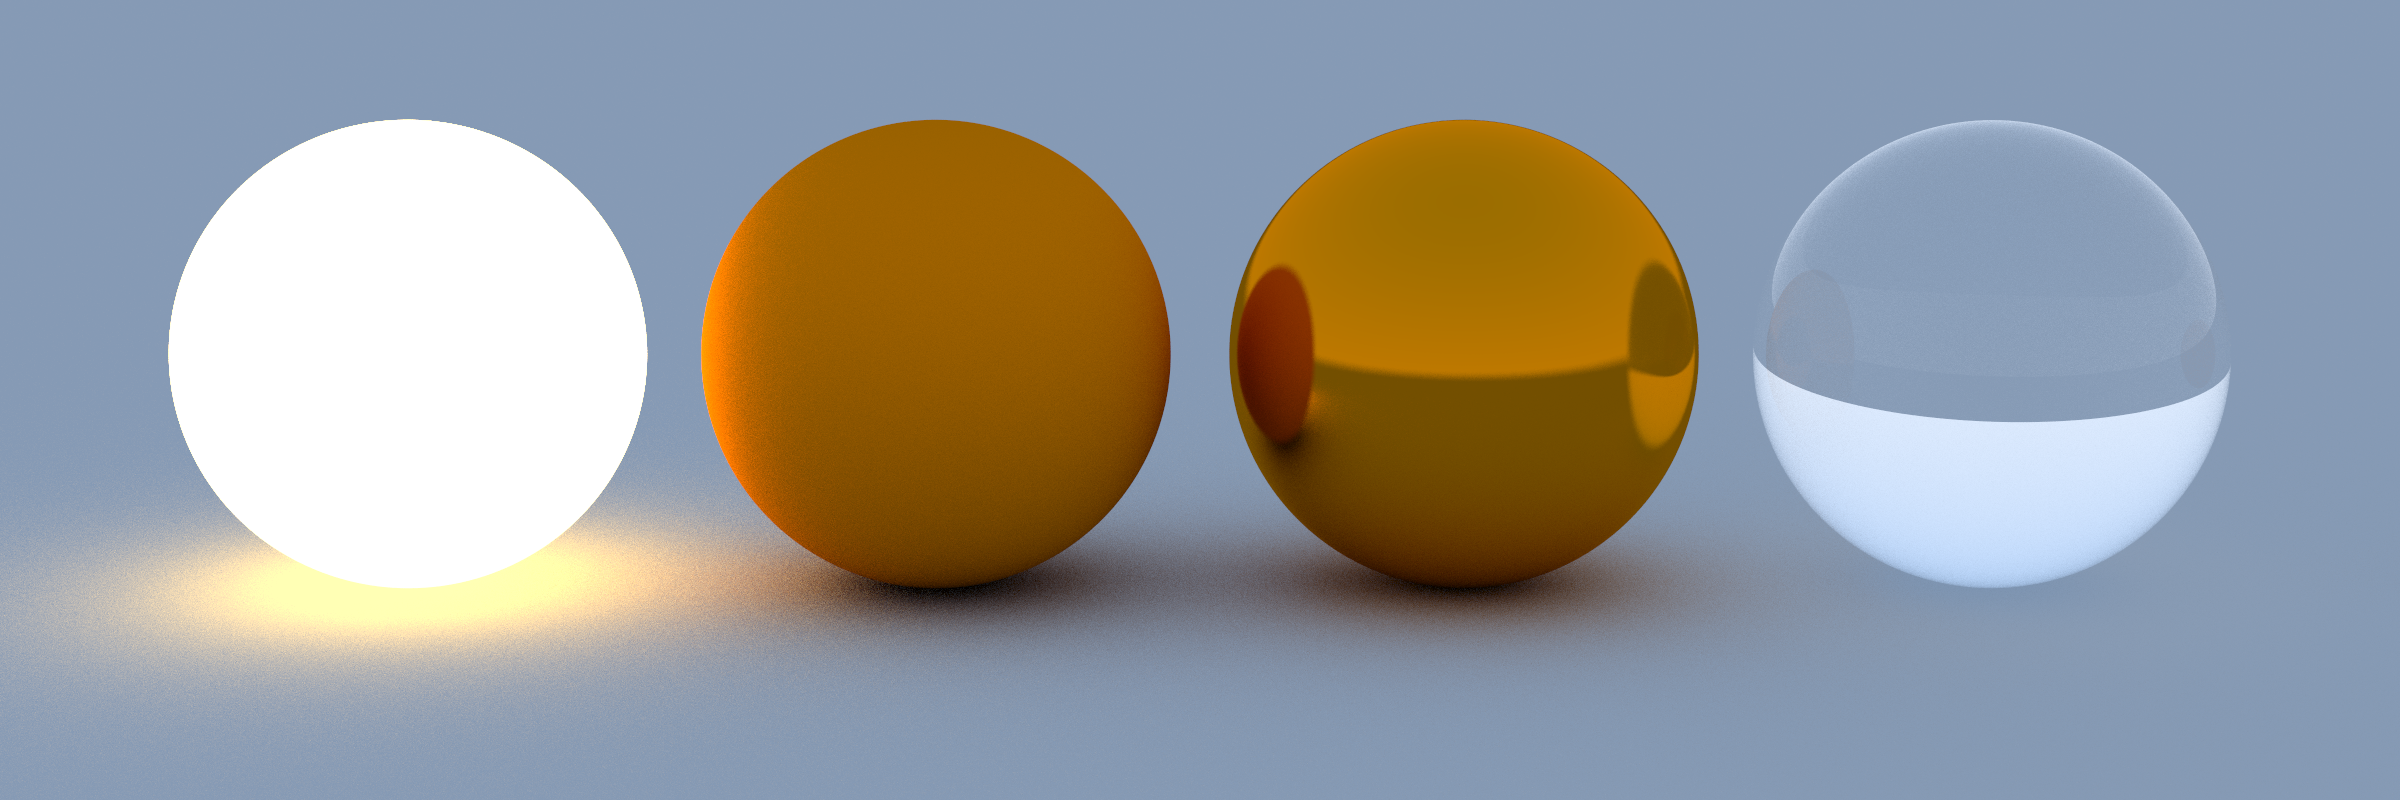
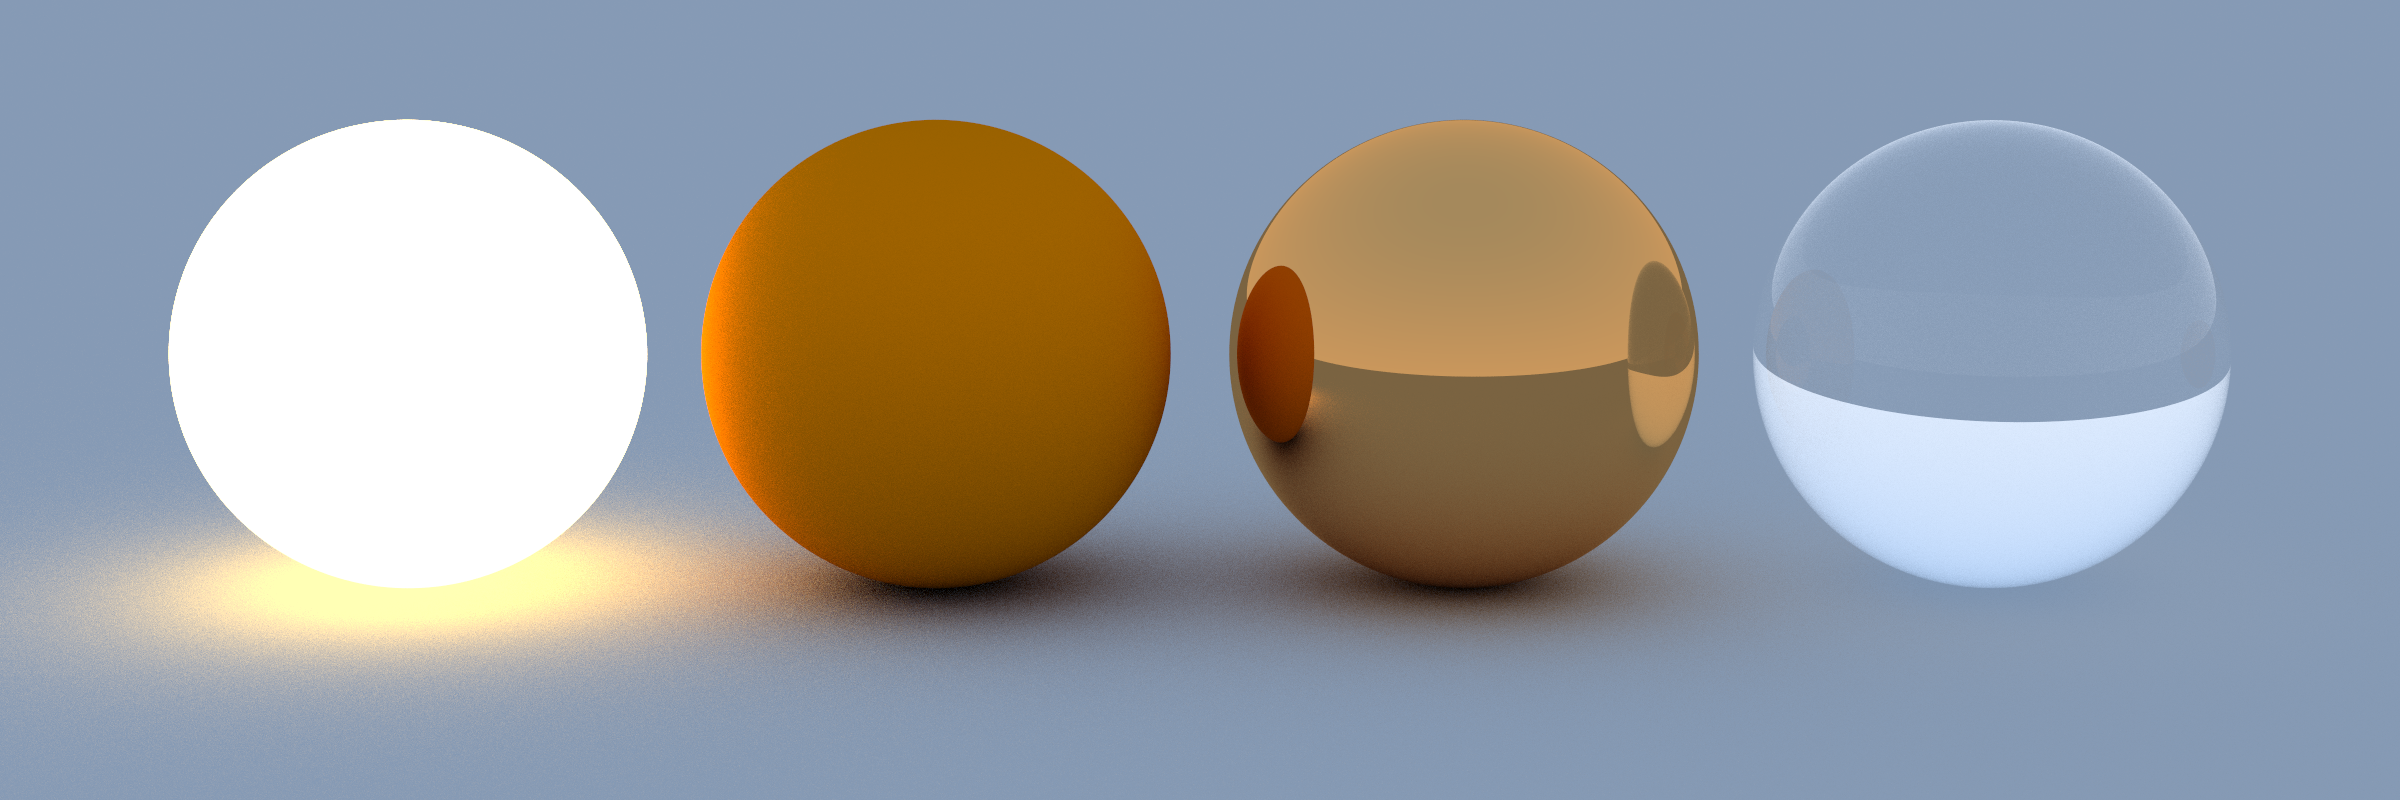
Refactored project.

Changed region(s): [[0.5, 0.125, 0.7188, 0.7188], [0.3438, 0.7188, 0.375, 0.75]]

diff --git a/src/bin/main.rs b/src/bin/main.rs
@@ -1,77 +1,8 @@
-use rust_ray::vec3::Vec3;
-use rust_ray::ray::Ray;
-use rust_ray::camera::Camera;
-use rust_ray::objects::Hitable;
-use rust_ray::util::clamp;
-use rust_ray::util::scenes::{random_scene2, simple_scene};
+use rust_ray::util::{clamp, Ray, Vec3, simple_scene, Sample};
 
 use rand::{thread_rng, Rng};
 use rayon::prelude::*;
 use std::time::Instant;
-
-struct Sample<'a> {
-    ray: Option<Ray>,
-    color: Vec3,
-    depth: usize,
-    max_depth: usize,
-    world: &'a dyn Hitable
-}
-
-impl<'a> Sample<'a> {
-    pub fn new(ray: Ray, max_depth: usize, world: &'a dyn Hitable) -> Self {
-        Sample {
-            ray: Some(ray),
-            color: Vec3::new(1.0, 1.0, 1.0),
-            depth: 0,
-            max_depth,
-            world
-        }
-    }
-}
-
-impl<'a> Iterator for Sample<'a> {
-    type Item = Vec3;
-
-    // Propagates the ray through the scene to get the color of the sample
-    fn next(&mut self) -> Option<Vec3> {
-        match self.ray {
-            Some(ray) => {
-                // t_min here is set to 0.001 to prevent some shadowing errors
-                match self.world.hit(ray, 0.001, std::f64::INFINITY) {
-                    Some((surface_interaction, material)) => {
-                        match material.scatter(ray, surface_interaction.normal, surface_interaction.point) {
-                            (attenuation, None) => {
-                                self.color *= attenuation;
-                                self.ray = None;
-                            }
-                            (attenuation, Some(scattered)) => {
-                                self.color *= attenuation;
-
-                                if self.depth < self.max_depth {
-                                    self.depth += 1;
-                                    self.ray = Some(scattered);
-                                } else {
-                                    self.ray = None
-                                }
-                            }
-                        }
-                    }
-                    None => {
-                        // This is the sky color and falloff
-                        let unit_direction: Vec3 = ray.direction.unit();
-                        let t: f64 = 0.5 * (unit_direction.y + 1.0);
-                        self.color *= Vec3::new(1.0, 1.0, 1.0) * (1.0 - t) + Vec3::new(0.5, 0.7, 1.0) * t;
-                        self.ray = None;
-                    }
-                }
-                Some(self.color)
-            }
-            None => {
-                None
-            }
-        }
-    }
-}
 
 fn main() {
     let width: usize = 2400;

diff --git a/src/util/sample.rs b/src/util/sample.rs
@@ -1,0 +1,66 @@
+use crate::util::{Ray, Vec3};
+use crate::objects::Hitable;
+
+pub struct Sample<'a> {
+    ray: Option<Ray>,
+    color: Vec3,
+    depth: usize,
+    max_depth: usize,
+    world: &'a dyn Hitable
+}
+
+impl<'a> Sample<'a> {
+    pub fn new(ray: Ray, max_depth: usize, world: &'a dyn Hitable) -> Self {
+        Sample {
+            ray: Some(ray),
+            color: Vec3::new(1.0, 1.0, 1.0),
+            depth: 0,
+            max_depth,
+            world
+        }
+    }
+}
+
+impl<'a> Iterator for Sample<'a> {
+    type Item = Vec3;
+
+    // Propagates the ray through the scene to get the color of the sample
+    fn next(&mut self) -> Option<Vec3> {
+        match self.ray {
+            Some(ray) => {
+                // t_min here is set to 0.001 to prevent some shadowing errors
+                match self.world.hit(ray, 0.001, std::f64::INFINITY) {
+                    Some((surface_interaction, material)) => {
+                        match material.scatter(ray, surface_interaction.normal, surface_interaction.point) {
+                            (attenuation, None) => {
+                                self.color *= attenuation;
+                                self.ray = None;
+                            }
+                            (attenuation, Some(scattered)) => {
+                                self.color *= attenuation;
+
+                                if self.depth < self.max_depth {
+                                    self.depth += 1;
+                                    self.ray = Some(scattered);
+                                } else {
+                                    self.ray = None
+                                }
+                            }
+                        }
+                    }
+                    None => {
+                        // This is the sky color and falloff
+                        let unit_direction: Vec3 = ray.direction.unit();
+                        let t: f64 = 0.5 * (unit_direction.y + 1.0);
+                        self.color *= Vec3::new(1.0, 1.0, 1.0) * (1.0 - t) + Vec3::new(0.5, 0.7, 1.0) * t;
+                        self.ray = None;
+                    }
+                }
+                Some(self.color)
+            }
+            None => {
+                None
+            }
+        }
+    }
+}

diff --git a/src/util/scenes.rs b/src/util/scenes.rs
@@ -1,9 +1,8 @@
 use crate::objects::{HitableList, Sphere, Hitable, Triangle};
-use rand::{thread_rng, Rng};
-use crate::vec3::Vec3;
 use crate::material::Material;
-use crate::util::load_model;
-use crate::camera::Camera;
+use crate::util::{load_model, Vec3, Camera};
+
+use rand::{thread_rng, Rng};
 
 pub fn simple_scene(width: usize, height: usize) -> (Camera, HitableList) {
     let look_from = Vec3::new(16.0, 4.0, 0.0);
@@ -18,7 +17,7 @@ pub fn simple_scene(width: usize, height: usize) -> (Camera, HitableList) {
     list.push(Box::new(Triangle::new2(Vec3::new(-1000.0, 0.0, -1000.0), Vec3::new(1000.0, 0.0, -1000.0), Vec3::new(-1000.0, 0.0, 1000.0), Vec3::new(0.0, 1.0, 0.0), Material::Lambertian {attenuation: Vec3::new(0.5, 0.5, 0.5)})));
 
     list.push(Box::new(Sphere::new(Vec3::new(0.0, 1.0, -3.375), 1.0, Material::Dielectric {refraction: 1.5})));
-    list.push(Box::new(Sphere::new(Vec3::new(0.0, 1.0, -1.125), 1.0, Material::Metal {attenuation: Vec3::new(189.0 / 255.0, 67.0 / 255.0, 0.0), fuzziness: 0.05})));
+    list.push(Box::new(Sphere::new(Vec3::new(0.0, 1.0, -1.125), 1.0, Material::Metal {attenuation: Vec3::new(212.0 / 255.0, 105.0 / 255.0, 33.0 / 255.0), fuzziness: 0.0})));
     list.push(Box::new(Sphere::new(Vec3::new(0.0, 1.0, 1.125), 1.0, Material::Lambertian {attenuation: Vec3::new(167.0 / 255.0, 51.0 / 255.0, 0.0)})));
     list.push(Box::new(Sphere::new(Vec3::new(0.0, 1.0, 3.375), 1.0, Material::Emission {color: Vec3::new(227.0 / 255.0 * 4.0, 160.0 / 255.0 * 4.0, 1.0)})));
 

diff --git a/src/util/mod.rs b/src/util/mod.rs
@@ -1,10 +1,19 @@
 use crate::objects::{Hitable, Triangle};
 use crate::material::Material;
-use crate::vec3::Vec3;
 use rand::{Rng, thread_rng};
 use std::path::Path;
 
 pub mod scenes;
+pub mod camera;
+pub mod vec3;
+pub mod ray;
+pub mod sample;
+
+pub use scenes::*;
+pub use camera::*;
+pub use vec3::*;
+pub use ray::*;
+pub use sample::*;
 
 // Clamps a value between two bounds
 pub fn clamp<T: PartialOrd>(value: T, lower: T, upper: T) -> T {

diff --git a/src/material/mod.rs b/src/material/mod.rs
@@ -1,9 +1,6 @@
-use crate::vec3::Vec3;
 use rand::{thread_rng, Rng};
-use crate::ray::Ray;
-use crate::util::{reflect, refract, schlick};
+use crate::util::{reflect, refract, schlick, Vec3, Ray};
 
-// The attenuation here is the amount of each RGB colour which is dissipated with each bounce
 #[derive(Copy, Clone)]
 pub enum Material {
     Lambertian {

diff --git a/src/objects/sphere.rs b/src/objects/sphere.rs
@@ -1,7 +1,6 @@
-use crate::vec3::Vec3;
 use crate::material::Material;
 use crate::objects::{Hitable, SurfaceInteraction};
-use crate::ray::Ray;
+use crate::util::{Vec3, Ray};
 
 pub struct Sphere {
     center: Vec3,

diff --git a/src/objects/triangle.rs b/src/objects/triangle.rs
@@ -1,7 +1,6 @@
-use crate::vec3::Vec3;
 use crate::material::Material;
 use crate::objects::{Hitable, SurfaceInteraction};
-use crate::ray::Ray;
+use crate::util::{Vec3, Ray};
 
 pub struct Triangle {
     v0: Vec3,

diff --git a/src/util/camera.rs b/src/util/camera.rs
@@ -1,6 +1,4 @@
-use crate::vec3::Vec3;
-use crate::ray::Ray;
-use crate::util::random_in_unit_disk;
+use crate::util::{random_in_unit_disk, Vec3, Ray};
 
 pub struct Camera {
     lower_left_corner: Vec3,

diff --git a/src/objects/mod.rs b/src/objects/mod.rs
@@ -1,6 +1,5 @@
-use crate::vec3::Vec3;
-use crate::ray::Ray;
 use crate::material::Material;
+use crate::util::{Vec3, Ray};
 
 pub mod sphere;
 pub mod triangle;

diff --git a/src/lib.rs b/src/lib.rs
@@ -1,6 +1,3 @@
-pub mod vec3;
-pub mod ray;
-pub mod camera;
 pub mod material;
 pub mod util;
 pub mod objects;

diff --git a/src/util/ray.rs b/src/util/ray.rs
@@ -1,4 +1,4 @@
-use crate::vec3::Vec3;
+use crate::util::Vec3;
 
 #[derive(Copy, Clone)]
 pub struct Ray {
